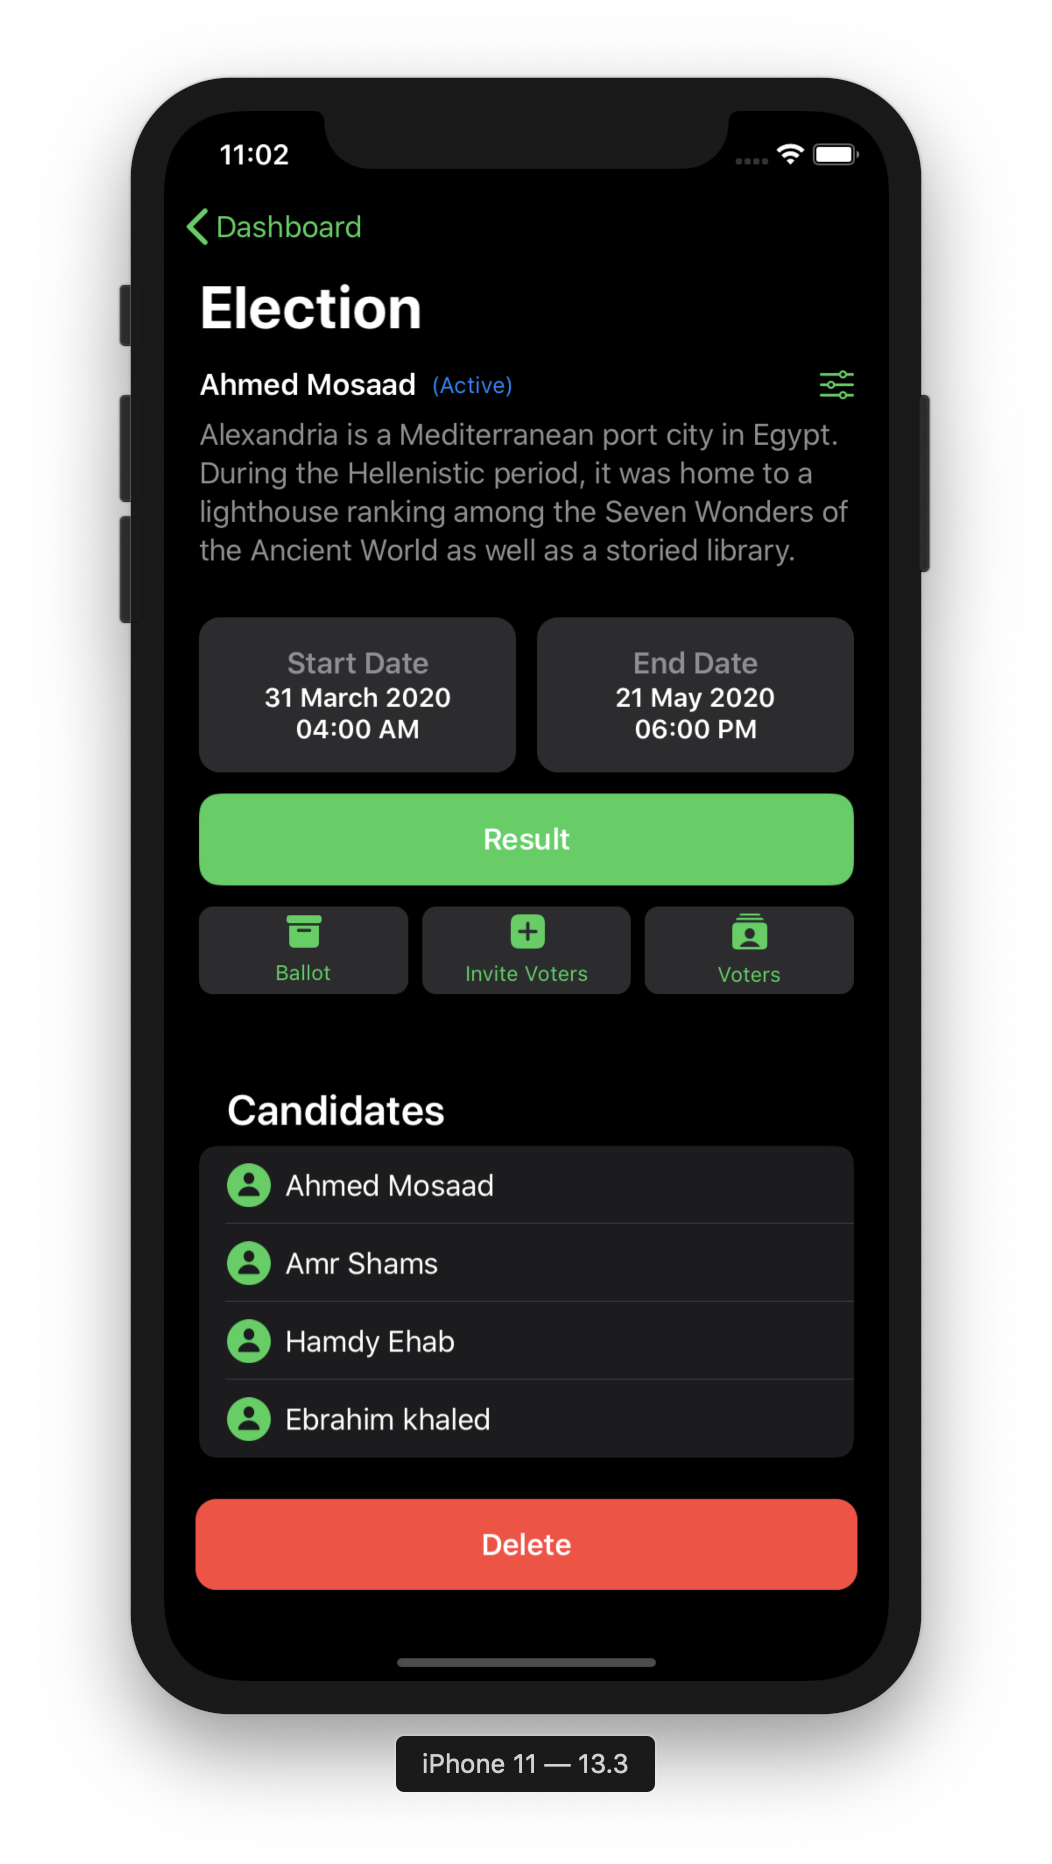
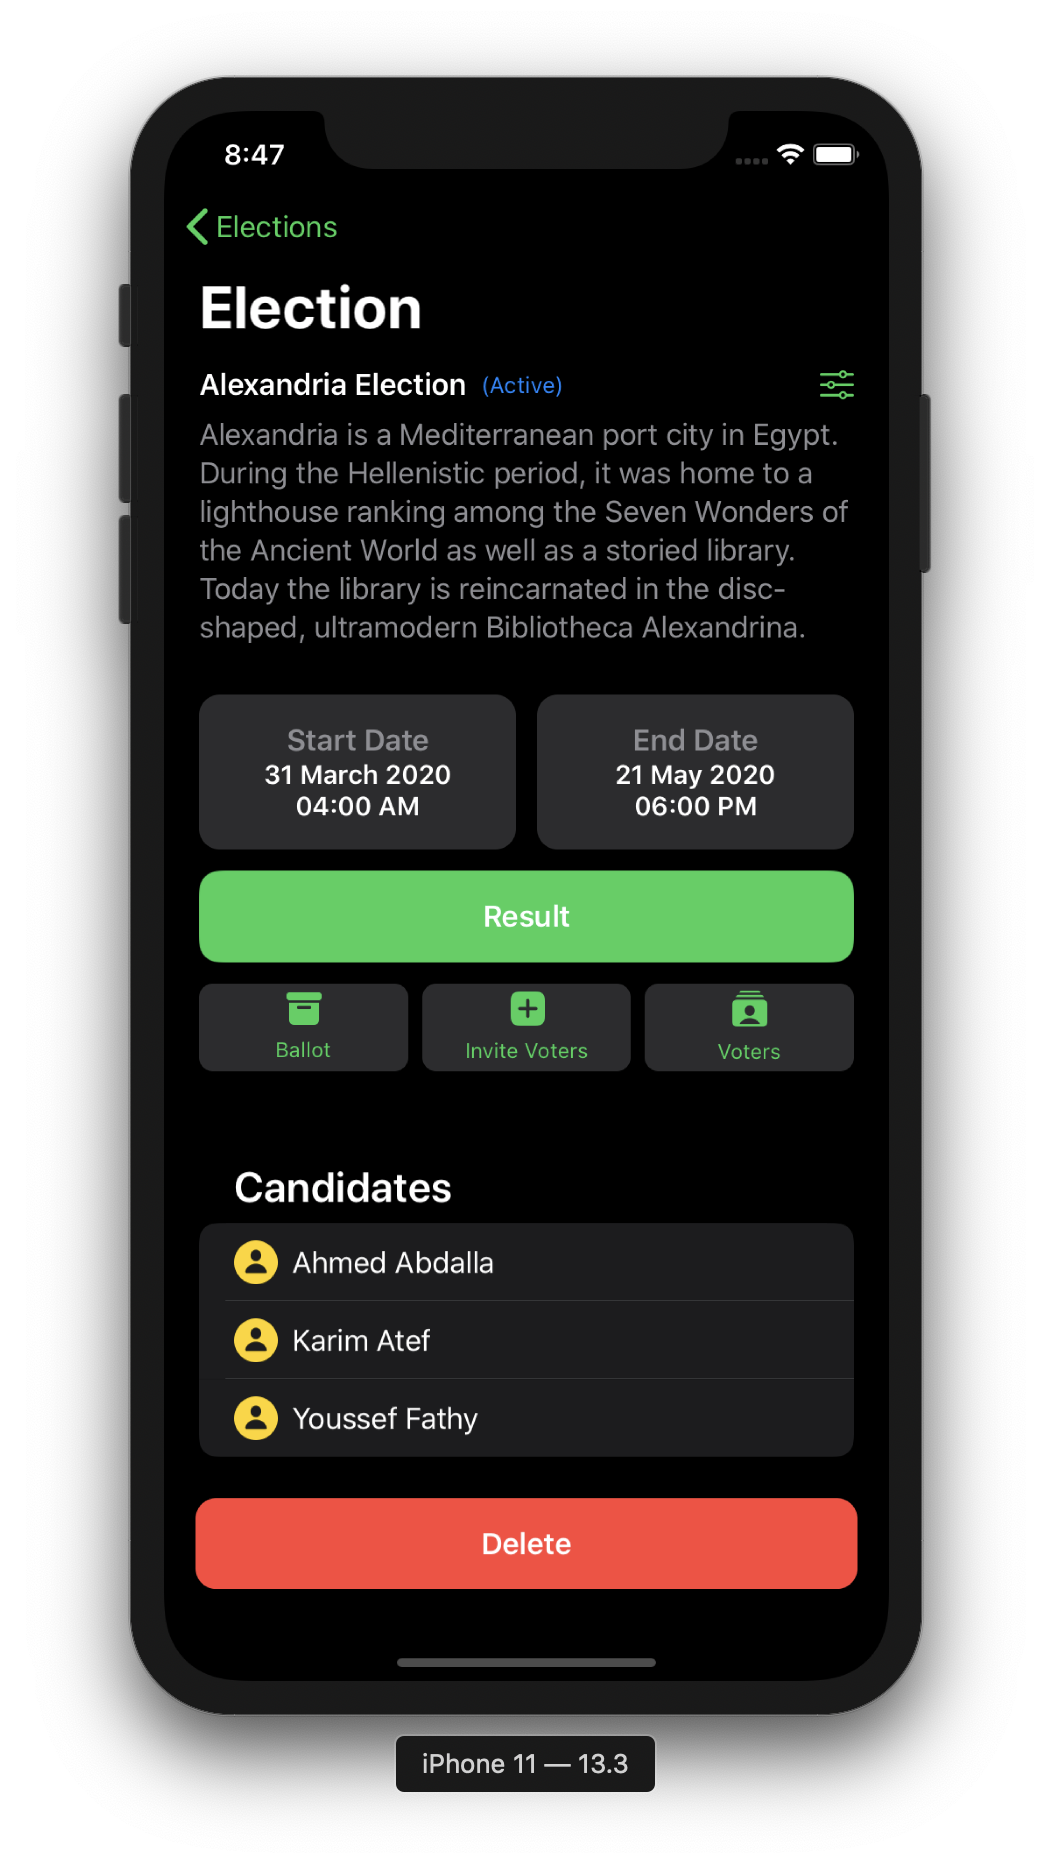
balancing yellow and green in design

diff --git a/Algora/Result/Result.swift b/Algora/Result/Result.swift
@@ -53,7 +53,7 @@ struct BarView: View {
                 .foregroundColor(Color.init(.tertiarySystemBackground))
             Capsule()
             .frame(width: score, height: 20)
-                .foregroundColor(Color.init(.systemGreen))
+                .foregroundColor(Color.init(.systemYellow))
         }
     }
     
@@ -100,51 +100,3 @@ struct InfoCell: View {
     }
 }
 
-//VStack {
-//           HStack {
-//               Button(action: {
-//
-//               }) {
-//                   Text("Cancel")
-//               }
-//               Spacer()
-//           }.padding()
-//           Spacer()
-//           VStack {
-//               VStack(alignment: .leading) {
-//                   Text("Winner is")
-//                       .font(.system(size: 36))
-//                   Text("Samna 🎉")
-//                       .font(.system(size: 36))
-//                       .bold()
-//                       .foregroundColor(.green)
-//               }.padding(.bottom)
-//               VStack (alignment: .leading){
-//                   Text("Votes Info")
-//                       .font(.headline)
-//                       .padding(.bottom, 6)
-//                   HStack {
-//                       Text("Type:")
-//                       Spacer()
-//                       Text("Private")
-//                           .foregroundColor(.blue)
-//                   }.frame(width: 300)
-//                   HStack {
-//                       Text("Total Voters:")
-//                       Spacer()
-//                       Text("45")
-//                           .foregroundColor(.blue)
-//                   }.frame(width: 300)
-//                   HStack {
-//                       Text("Ballots Cast:")
-//                       Spacer()
-//                       Text("89483")
-//                           .foregroundColor(.blue)
-//                   }.frame(width: 300)
-//               }
-//           }
-//           .padding()
-//           .background(Color.init(.secondarySystemBackground))
-//           .cornerRadius(12)
-//           Spacer()
-//       }

diff --git a/Algora/Main.swift b/Algora/Main.swift
@@ -28,7 +28,7 @@ struct Main: View {
             
             Contact().tabItem {
                 VStack {
-                    Image(systemName: "envelope")
+                    Image(systemName: "envelope.fill")
                     .font(.system(size: 20))
                     Text("Contact")
                 }
@@ -36,7 +36,7 @@ struct Main: View {
             
             Profile().tabItem {
                 VStack {
-                    Image(systemName: "person.fill")
+                    Image(systemName: "person")
                     .font(.system(size: 20))
                     Text("Profile")
                 }

diff --git a/Algora/Contact.swift b/Algora/Contact.swift
@@ -27,8 +27,8 @@ struct Contact: View {
                         .foregroundColor(Color.init(.systemGray))
                         .padding()
                     
-                    AbstractButton(color: Color.init(.systemGreen), label: "AOSSIE'S GitLab")
-                     AbstractButton(color: Color.init(.systemGreen), label: "AOSSIE'S Gitter")
+                    AbstractButton(color: Color.init(.systemYellow), label: "AOSSIE'S GitLab")
+                    AbstractButton(color: Color.init(.systemGreen), label: "AOSSIE'S Gitter")
                     
                 }.padding()
             }

diff --git a/Algora/SceneDelegate.swift b/Algora/SceneDelegate.swift
@@ -20,7 +20,7 @@ class SceneDelegate: UIResponder, UIWindowSceneDelegate {
         // This delegate does not imply the connecting scene or session are new (see `application:configurationForConnectingSceneSession` instead).
 
         // Create the SwiftUI view that provides the window contents.
-        let contentView = ForgotPassword()
+        let contentView = Main()
         //DashboardMainCell(iconName: "calendar.circle.fill", status: "Today", count: 2, iconColor: Color.white)
 
         // Use a UIHostingController as window root view controller.
